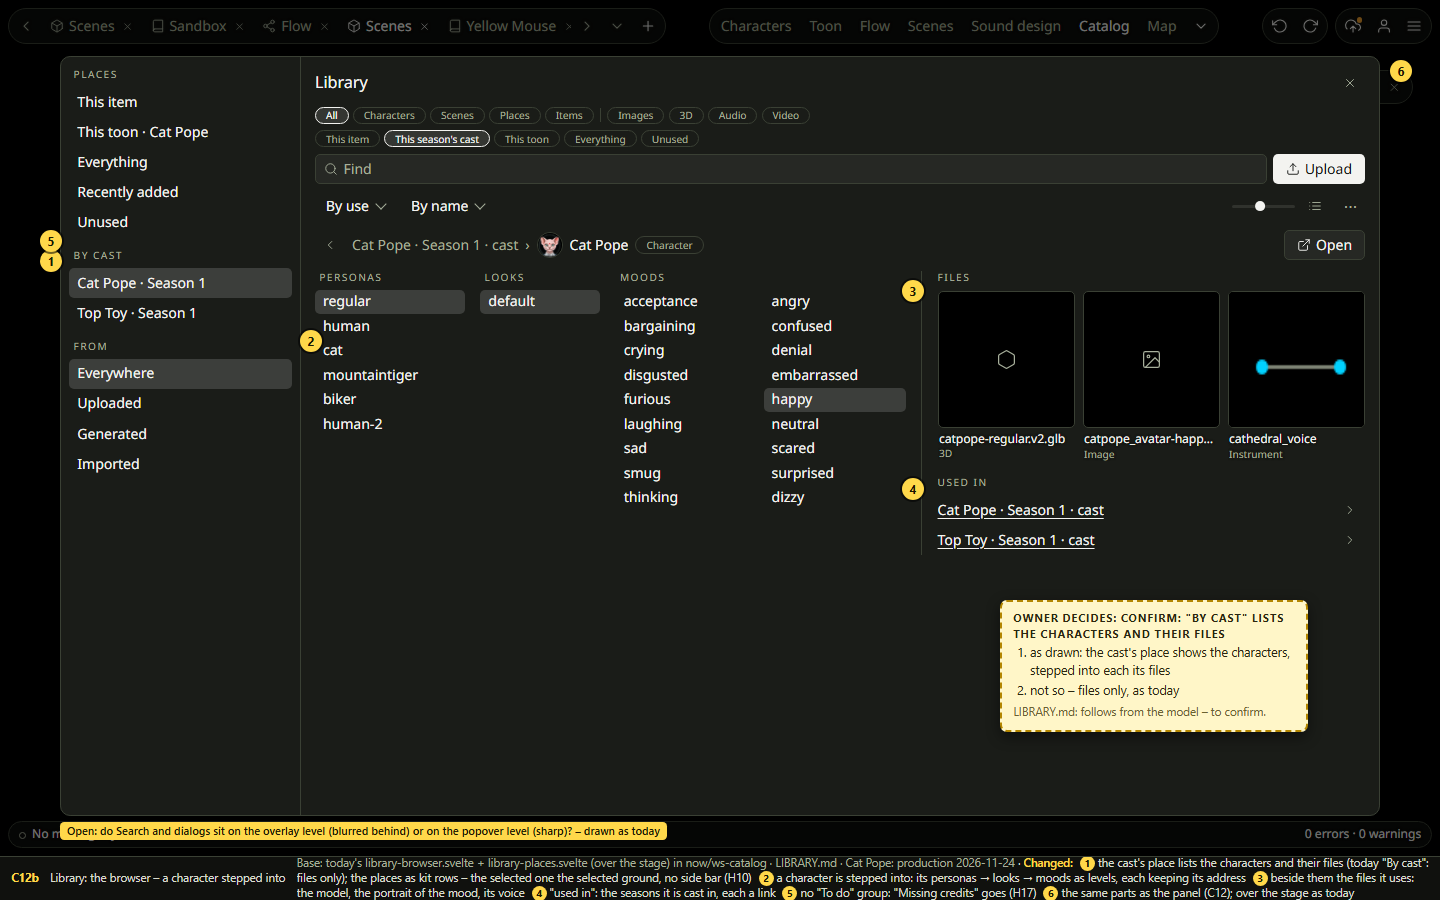
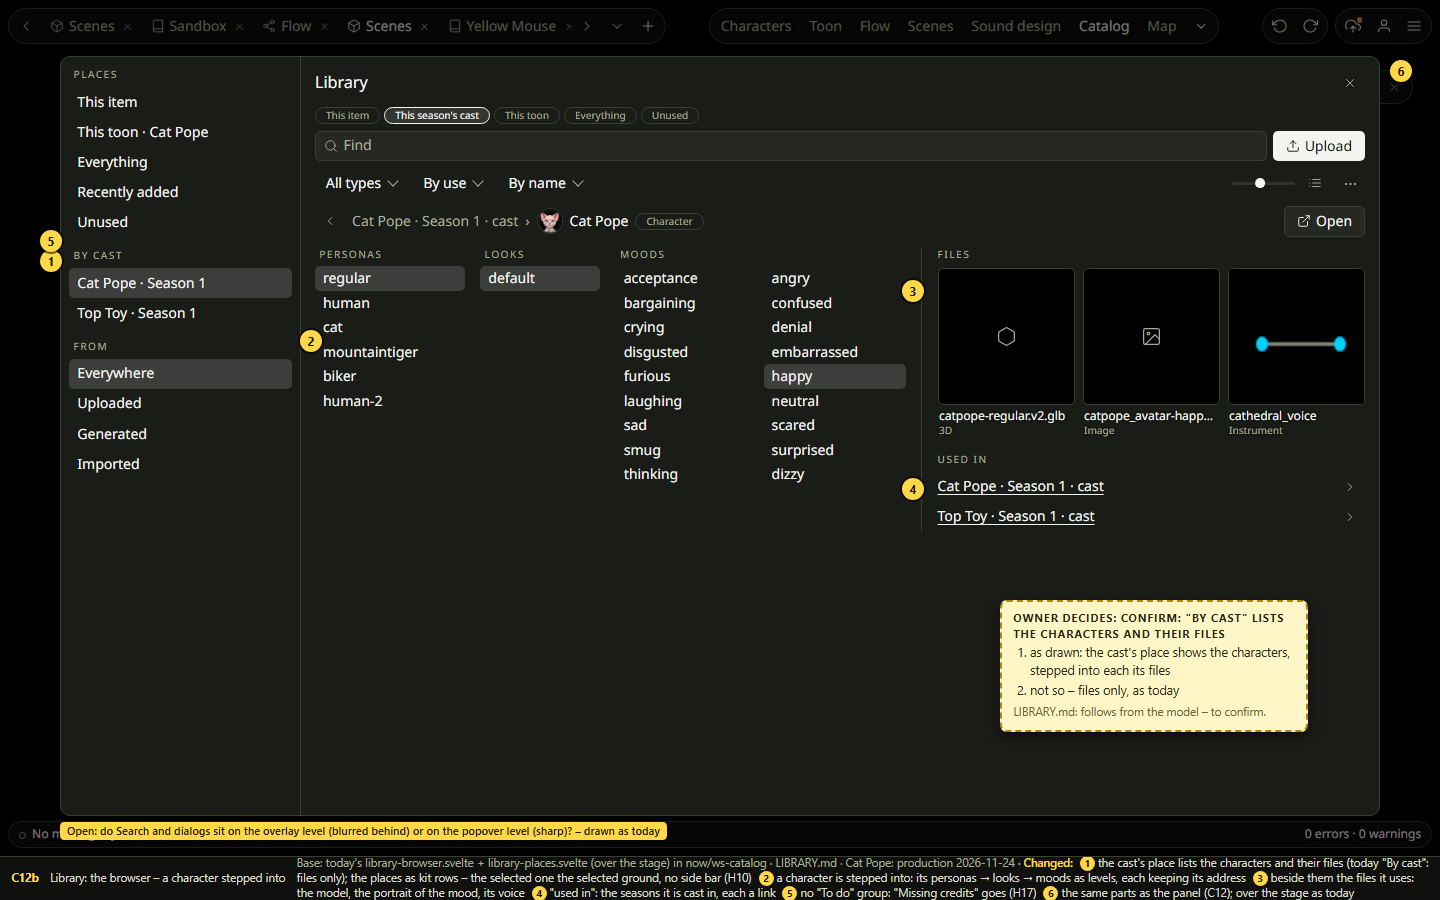
Lap 2 draft: the Library's type filter as one quiet select with eleven kinds of thing and four kinds of file (owner 2026-11-24); every Library panel re-rendered. Refs #626

diff --git a/agents/research/redesign/lap2/draft.html b/agents/research/redesign/lap2/draft.html
@@ -97,6 +97,7 @@ svg.i{width:1rem;height:1rem;stroke:currentColor;fill:none;stroke-width:1.6;stro
 /* kit: the quiet select (kit-d.html "Select quiet" .fld.q, owner 2026-11-24; named .quiet here: .q is the draft's question card) – a filter or sort: no box at rest, a rounded border on hover (.h) and while open (.on), the chevron after the word */
 .fld.quiet{width:auto!important;gap:.55rem;padding:0 .7rem;border-color:transparent;background:none;border-radius:calc(var(--control-height)/2)}
 .fld.quiet.sel::after{margin-left:0}
+.fld.quiet{white-space:nowrap;flex:none}
 .fld.quiet.h{border-color:var(--d-edge)} .fld.quiet.on{border-color:var(--tool-text)}
 .slot{display:grid;place-items:center;border:1px dashed var(--tool-muted);border-radius:var(--editor-radius);color:var(--tool-text)}
 .seg{display:inline-flex;border:1px solid var(--tool-line);border-radius:var(--editor-radius);background:var(--tool-control);text-shadow:none}
@@ -433,7 +434,8 @@ const PIC = {
 };
 /* a tile: [name, type or kind, picture ('<…>' html · an icon name · null = a still that does not exist yet), {on, x}] */
 const libTile = ([n, m, pic, o = {}]) => `<div class="th ${o.on ? 'on' : ''} ${o.x ? 'x' : ''}" title="${n}"><div class="pv ${pic === null ? 'pend' : ''}" ${o.pvH ? `style="aspect-ratio:auto;height:${o.pvH}px"` : ''}>${pic === null ? '<span>still pending</span>' : pic.startsWith('<') ? pic : ic(pic)}</div><div class="nm">${n}</div><div class="mt">${m}</div></div>`;
-const LIB_THINGS = ['Characters', 'Scenes', 'Places', 'Items'], LIB_FILES = ['Images', '3D', 'Audio', 'Video'];
+/* the types the Library lists (owner 2026-11-24): eleven kinds of thing and four kinds of file – one quiet select, its list in two groups ("Yes, a select") */
+const LIB_THINGS = ['Toons', 'Characters', 'Scenes', 'Shows', 'Places', 'Items', 'Modules', 'Instruments and rigs', 'Generators', 'Kanon', 'People'], LIB_FILES = ['Images', '3D', 'Audio', 'Video'];
 const LIB_PLACES = ['This item', "This season's cast", 'This toon', 'Everything', 'Unused'];
 const libSep = '<span style="flex:none;width:1px;height:1rem;margin:0 .15rem;background:var(--tool-line)"></span>';
 function libraryBody(o = {}) {
@@ -441,10 +443,9 @@ function libraryBody(o = {}) {
   const chip = (n, on) => `<span class="kc ${on ? 'on' : ''}">${n}</span>`;
   const grid = (tiles, c = cols) => `<div style="display:grid;grid-template-columns:repeat(${c},minmax(0,1fr));gap:${o.gap || '.65rem .55rem'}">${tiles.map(t => libTile(o.pvH ? [t[0], t[1], t[2], { ...(t[3] || {}), pvH: o.pvH }] : t)).join('')}</div>`;
   return `${o.pick ? `<div style="display:flex;align-items:center;gap:.45rem;margin:.1rem 0 .5rem">Pick for <span class="kc on">${o.pick}</span><span style="flex:1"></span><span class="kb plain" style="height:1.75rem" title="Esc">Cancel</span></div>` : ''}
-    <div style="display:flex;gap:.3rem;flex-wrap:wrap;align-items:center;margin-bottom:.45rem">${chip('All', type === 'All')}${LIB_THINGS.map(n => chip(n, n === type)).join('')}${libSep}${LIB_FILES.map(n => chip(n, n === type)).join('')}</div>
     <div style="display:flex;gap:.3rem;flex-wrap:wrap;margin-bottom:.5rem">${(o.places || LIB_PLACES).map(n => chip(n, n === place)).join('')}</div>
     <div style="display:flex;gap:.4rem;margin-bottom:.5rem"><span class="fld" style="flex:1">${ic('search')}<span class="ph">Find</span></span>${o.pick ? '' : `<span class="kb primary">${ic('upload')}Upload</span>`}</div>
-    <div style="display:flex;align-items:center;gap:.35rem;margin-bottom:.6rem"><span class="fld sel quiet" style="width:6.4rem" title="Grouping">By use</span><span class="fld sel quiet" style="width:7.2rem" title="Sort">By name</span><span style="flex:1"></span><span class="rng" title="Tile size"></span><span class="kib muted" title="As a list">${ic('list')}</span><span class="kib muted" title="More" style="font-size:1.1rem">⋯</span></div>
+    <div style="display:flex;align-items:center;gap:.35rem;margin-bottom:.6rem"><span style="position:relative;display:inline-flex;flex:none"><span class="fld sel quiet ${o.typeOpen ? 'on' : ''}" title="Type">${type === 'All' ? 'All types' : type}</span>${o.typeOpen ? `<div class="km" style="left:0;top:calc(var(--control-height) + 4px);min-width:13rem;z-index:70"><div class="kmi"><span class="w">All types</span></div><div class="kmh">Things</div>${LIB_THINGS.map(n => `<div class="kmi" style="min-height:1.7rem">${n === type ? '<span style="width:.4rem;height:.4rem;border-radius:50%;background:var(--tool-text)"></span>' : '<span style="width:.4rem"></span>'}<span class="w">${n}</span></div>`).join('')}<div class="kmh">Files</div>${LIB_FILES.map(n => `<div class="kmi" style="min-height:1.7rem"><span style="width:.4rem"></span><span class="w">${n}</span></div>`).join('')}</div>` : ''}</span><span class="fld sel quiet" style="width:6.4rem" title="Grouping">By use</span><span class="fld sel quiet" style="width:7.2rem" title="Sort">By name</span><span style="flex:1"></span><span class="rng" title="Tile size" style="min-width:0;flex:0 1 auto"></span><span class="kib muted" title="As a list">${ic('list')}</span><span class="kib muted" title="More" style="font-size:1.1rem">⋯</span></div>
     ${o.content || (o.groups ? o.groups.map(([label, tiles]) => `<div class="label" style="margin:.2rem 0 .35rem">${label}</div>${grid(tiles)}`).join('<div style="height:.7rem"></div>') : grid(o.tiles || []))}`;
 }
 /* the deck's Library tiles as shot (now/deck-3-stage-workspace): the pictures are the shot's own tiles, else the kind's icon */

diff --git a/agents/research/redesign/lap2/draft-screens.js b/agents/research/redesign/lap2/draft-screens.js
@@ -358,7 +358,7 @@ const catalogBack = (o = {}) => `${cbar({ chevron: true, wsOn: 'Catalog', items:
   ${o.log === false ? '' : folded(1265, 70, 'Log')}${cstatus('No messages yet', '0 errors · 0 warnings')}`;
 const qOneList = (x, y, w = '21rem') => qcard(x, y, 'confirm: one list – "Items to open" goes', ['as drawn: things and files in one list, the type the first filter', 'not so – your words'], 'LIBRARY.md: follows from the model – to confirm.', w);
 add('C', 'C12', 'Library: the panel', "today's library-panel.svelte (its parts and words) in now/ws-catalog (Kamera open) · LIBRARY.md (the extended Library)",
-  ['the type is the first filter: things (Characters, Scenes, Places, Items) | files (Images, 3D, Audio, Video) – "Items to open" goes',
+  ['the type is one quiet select ("All types"): eleven kinds of thing and four kinds of file, its list in two groups (F1 shows it open) – "Items to open" goes',
    "the places narrow it: This item · This season's cast · This toon · Everything (Unused as today)",
    "things and files in one list: a thing's tile shows its type, a file's tile its kind; a video's tile its preview picture – a still that does not exist yet says so (#842)",
    "every part from the kit: the kit's small chips, the selected one in the text colour; Grouping and Sort the kit's quiet select; Upload the one primary action; \"Find\"; a selected tile the 2px ring"],
@@ -497,9 +497,9 @@ add('E', 'E5d', 'Scenes follow-ups: a show with several toons', 'scenes/epic-dra
 
 /* ════════ F · concepts ════════ */
 add('F', 'F1', 'Catalog + Library: one concept', 'C12, C9 · LIBRARY.md (the extended Library – answers F1)',
-  ["the Catalog's entries are things in the Library: the type Items, the place This toon",
+  ["the Catalog's entries are things in the Library: the type Items, the place This toon – the type is one quiet select, its list in two groups: eleven kinds of thing, four kinds of file (decided 2026-11-24)",
    'opening one opens it in the Catalog (Kamera)', 'the Catalog has no list of every entry of its own (C9)'],
-  () => `${catalogBack({ log: false })}${libraryPanel(1010, 60, 416, 760, { cols: 4, type: 'Items', place: 'This toon', tiles: [tl('kamera', { on: 1 }), tl('gurke'), tl('gurkenkamera'), tl('gurkenkreuz')] })}
+  () => `${catalogBack({ log: false })}${libraryPanel(1010, 60, 416, 760, { cols: 4, type: 'Items', typeOpen: true, place: 'This toon', tiles: [tl('kamera', { on: 1 }), tl('gurke'), tl('gurkenkamera'), tl('gurkenkreuz')] })}
   ${mk(1, 990, 96)}${mk(2, 990, 300)}${mk(3, 560, 118)}
   ${qcard(620, 470, 'confirm: no top-level list of every entry; one list for things and files', ['as drawn: the Catalog shows the open entry, the Library finds them', 'not so – your words'], 'LIBRARY.md: follows from the model – to confirm.', '22rem')}`);
 add('F', 'F2', 'The one-look sheet', 'kit-d.html (approved 2026-11-24)', [], frl('kit-d.html', ''), { idle: ' – nothing: approved as drawn' });

diff --git a/agents/research/redesign/lap2/DECISIONS.md b/agents/research/redesign/lap2/DECISIONS.md
@@ -68,7 +68,7 @@ One line per decision. **Open** lists what still needs the owner's word; **Thoug
 - **"Import images" goes** from the Map, the Catalog and Characters. Bulk comes through MCP; the Library places things into slots.
 - **A scene in the creator has a preview** that covers the whole back of the page; "Edit in deck" goes from there. The page previews and links, it does not edit.
 - **The writing pages are redesigned** for a good writing experience: Kanon, Notifications, Credits, Edit, Guide.
-- **The extended Library lists things and files** (LIBRARY.md), in both apps with the same panel, built in lap 2. Things: Toon · Character · Scene · Show · Place · Item (with recipes, products, editions, albums, home scenes) · Module · Instrument and rig · Generator, and for now Kanon texts and people. Files: a picture, a model, a sound, a video.
+- **The extended Library lists things and files** (LIBRARY.md), in both apps with the same panel, built in lap 2. Things: Toon · Character · Scene · Show · Place · Item (with recipes, products, editions, albums, home scenes) · Module · Instrument and rig · Generator, and for now Kanon texts and people. Files: a picture, a model, a sound, a video. The type is one quiet select with its list in two groups; the places are chips.
 - **A thing is stepped into.** A character's personas, looks and moods stay inside it, with the files it uses beside them.
 - **A cast is characters assigned to a toon:** found in the Library, edited in the toon's season. Opening a character from there comes to the Characters workspace.
 - **A list of characters or scenes beside the Library is redundant.** The Scenes workspace has no list of scenes of its own.
@@ -83,7 +83,7 @@ One line per decision. **Open** lists what still needs the owner's word; **Thoug
 **Open**
 - **The module editor was never designed** – in neither app. The creator's (Sound design) is an empty frame in the draft; the deck's is drawn only with nothing open. Before it is drawn: is the creator's editor removed, and what happens to what only it has (see PLAN.md, P9)?
 - What a good writing experience holds (C14) – your words, or a first draft from me to correct.
-- The extended Library's consequences to confirm (LIBRARY.md): one list instead of two; one picker instead of five sheets; the Catalog's and the Toon's top-level lists go; the Cast tab becomes "cast in"; "By cast" lists the characters; trees do not travel. And how the type filter is drawn with fifteen types.
+- The extended Library's consequences to confirm (LIBRARY.md): one list instead of two; one picker instead of five sheets; the Catalog's and the Toon's top-level lists go; the Cast tab becomes "cast in"; "By cast" lists the characters; trees do not travel.
 - Trees: the Library's "Items to open" against the trees; a borrowed tree – jump or reference.
 - Where the 2D-first / 3D-first preference sits.
 - Does the word "instrument" stay? MODULES-DNA.md points 2–7.

diff --git a/agents/decisions/creator.md b/agents/decisions/creator.md
@@ -4,6 +4,7 @@ The owner's words, one line each, newest first, append-only (how: agents/DECISIO
 Keys here: `[creator]` 85 the creator app · `[text-boxes]` 9 text boxes · `[timeline]` 3 the timeline
 
 ## 2026-11
+- 2026-11-24 · creator deck · [creator] **The Library's type filter is one quiet select ("All types"), its list in two groups – the eleven kinds of thing and the four kinds of file; the places stay chips.** Asked because fifteen types do not fit a row of chips. Owner: *"Yes, a select."* · → research/redesign/lap2/LIBRARY.md, draft `?s=C12`, `?s=F1`
 - 2026-11-24 · creator deck · [creator] **The extended Library: it lists Toon · Character · Scene · Show · Place · Item (with recipes, products, editions, albums, home scenes) · Module · Instrument and rig · Generator, and for now Kanon texts and people too; it is built in lap 2; a video's tile is one frame (no play on hover for now); the deck's Library is the same Library with the same panel.** Owner, on LIBRARY.md's four open points: *"1. … for now yes. 2. … built it in lap 2. 3. … play on hover is at this point not necessary. 4. … yes."* · → research/redesign/lap2/LIBRARY.md, PLAN.md P11
 - 2026-11-24 · creator · [creator] **The extended Library: it lists things and files. A character's personas, looks and moods stay inside the character (stepped into), with the files it uses beside them. A cast is characters assigned to a toon: found in the Library, edited in the toon – and opening a character from there comes to the Characters workspace to edit it.** Owner: *"Well, but a cast is a character assigned to a toon. So characters get listed alongside their assets like models."* · on the parts inside the character: *"Yes, stay inside character. Makes total sense."* · on found in the Library, edited in the toon: *"Yes. But edited in the toon means we can still just open it and come to the character workspace to edit it."* · *"We need to recap and kick out redundant concepts and redraw many screens now, due to the … extended Library."* What it makes redundant is listed in LIBRARY.md, part decided, part to confirm. · → research/redesign/lap2/LIBRARY.md, PLAN.md P11
 - 2026-11-24 · creator · [creator] **The Scenes workspace does not list the scenes in a view of its own – that list is the Library filtered to scenes.** Confirming the earlier remark that a list of scenes beside the Library is redundant. Owner: *"Yes, kind of makes no sense to list scenes in their own scenes-only view."* Today the Scenes page has a Tree panel listing every scene. · → research/redesign/lap2/PLAN.md P6, draft `?s=C5`

diff --git a/agents/research/redesign/lap2/NOTES.md b/agents/research/redesign/lap2/NOTES.md
@@ -122,3 +122,4 @@ Later, after these: the scene page + open in the deck; Catalog + Library; the on
 - **The deck orchestrator on the outlet colours** (2026-11-24): four – page · stage · target · device; "light" becomes "device" (the stored kind covers MIDI, DMX and OSC; the protocol as a mark, not a fifth colour); no sound colour (a stage outlet plays picture and sound as one role); none for a sub show (a placement, not an outlet); the clash with signals is real in a row's cells – outlet colours on lane and column heads only, or hues the signal table does not use; a mark each in the colour-blind set. In PLAN.md's open table for the owner.
 - **The extended Library's four open points answered** (owner): the types as listed, Kanon texts and people *"for now yes"*; *"built it in lap 2"*; a video's tile one frame – *"play on hover is at this point not necessary"*; the deck's Library the same panel – *"yes"*. LIBRARY.md, decisions/creator.md, DECISIONS.md §5, PLAN.md P11. Follow-up for the pictures: C12's type chips cover four kinds of thing – eleven do not fit a chip row.
 - **The deck orchestrator on P11** (2026-11-24): the deck's Library already is a typed list of things and files (deck-catalog `library`, `Entry { address, label, detail, kind, preview, made_for }`, 13 kinds, one deck-kit browser with kind facets, typeahead, "related to", drop rules, open-in-editor); the lists are assembled per workspace (`of_build`, `of_scene`, the book); Toon, Show, Generator, Kanon, Person are not kinds. Needs: one server endpoint both apps read (the main cost; else a twin in Rust), levels and "used in" on an entry, the five new kinds with their drop rule and open target, item subtypes as facets, video frames from P3's stills. After P3 and the endpoint; M–L for the deck. Folded into PLAN.md P11.
+- **Decided: the Library's type filter is one quiet select** (owner: *"Yes, a select."*) – LIBRARY.md, decisions/creator.md; drawn on C12 (closed) and F1 (open, two groups) and in every Library panel of the draft.

diff --git a/agents/research/redesign/lap2/PLAN.md b/agents/research/redesign/lap2/PLAN.md
@@ -106,7 +106,7 @@ The Library lists things and files; a thing is stepped into; an assignment shows
   - **Order:** after P3 and after the endpoint exists. Medium to large for the deck.
 - **In lap 2** (decided). It is the largest package: the Library learns to list things of eleven kinds beside the files, in both apps.
 - **Types** (decided): Toon · Character · Scene · Show · Place · Item · Module · Instrument and rig · Generator, and for now Kanon texts and people.
-- **Waits for your word:** the five consequences marked "to confirm" in LIBRARY.md, and how the type filter is drawn with fifteen types.
+- **Waits for your word:** the five consequences marked "to confirm" in LIBRARY.md.
 
 ### P8 · Bugs and wording
 - The Map's stage at 0 px.
@@ -153,7 +153,7 @@ These block a package. Each is in DECISIONS.md under its area.
 | "Open in the deck" with no deck installed | P4 |
 | The module editor: is the creator's removed, and what happens to what only it has | P9 |
 | What a good writing experience holds | P10 |
-| The extended Library: its five consequences to confirm; the type filter with fifteen types; what dropping a Toon, a Show, a Generator, a Kanon text or a person does, and where each opens (LIBRARY.md) | P11 |
+| The extended Library: its five consequences to confirm; what dropping a Toon, a Show, a Generator, a Kanon text or a person does, and where each opens (LIBRARY.md) | P11 |
 | P0 as part of the night run, or drawn and reviewed by you before it | everything |
 
 These do not block the run; their screens stay out of it:

diff --git a/agents/research/redesign/lap2/LIBRARY.md b/agents/research/redesign/lap2/LIBRARY.md
@@ -66,7 +66,7 @@
 2. **Built in lap 2.**
 3. **A video's tile is one frame.** Playing on hover is not needed at this point.
 4. **The deck's Library is the same extended Library, with the same panel.**
+5. **The type filter is one quiet select** ("All types"), its list in two groups – things and files. The places stay a row of chips.
 
 ## Open
-1. **The type filter in the picture.** C12 draws the types as a row of chips for four kinds of thing; with eleven kinds of thing and four kinds of file a row of chips no longer fits.
-2. **The five consequences marked "follows – confirm"** in the recap above; each has a question card on its screen.
+1. **The five consequences marked "follows – confirm"** in the recap above; each has a question card on its screen.
